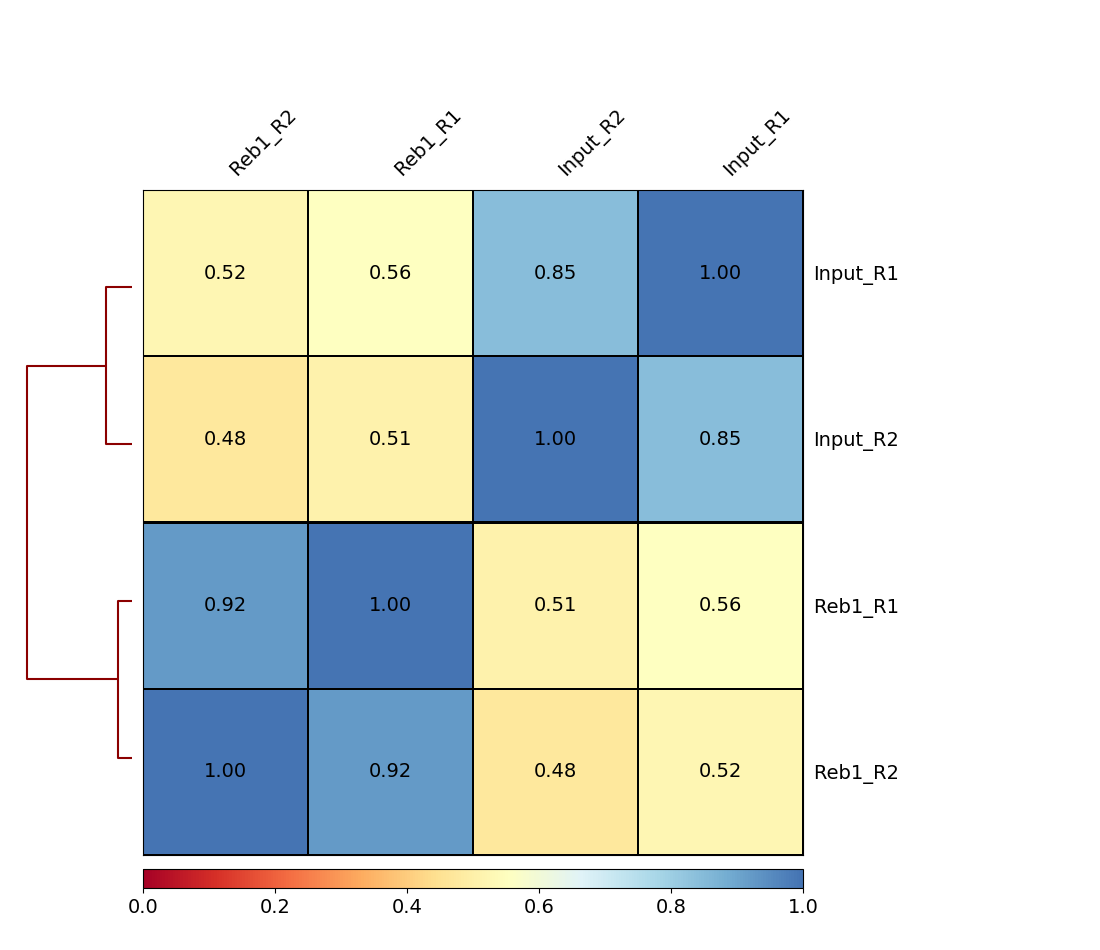
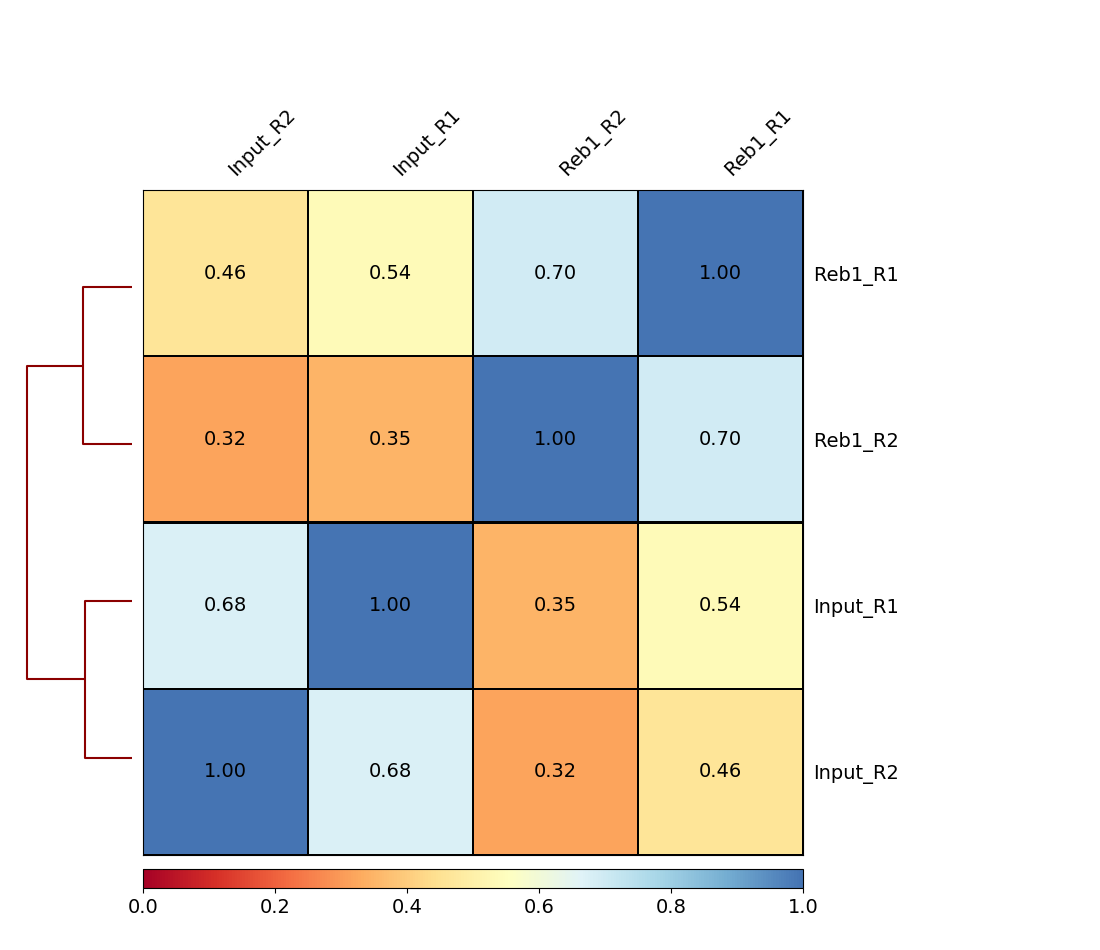
Updating tutorial for ECG 2018

diff --git a/index.md b/index.md
@@ -62,7 +62,7 @@ There are four datasets:
   																 </div>
 </div>
 
-These datasets are deposited in a [Galaxy library](https://usegalaxy.org/library/list#folders/F050cbba300e2dbed) (watch <a href="#" data-toggle="modal" data-target="#lib_video">Video</a> on how to import data from a library):
+These datasets are deposited in a [Galaxy library](http://ecg2018.bioch.virginia.edu/galaxy/library/list#folders/Ff2db41e1fa331b3e) (watch <a href="#" data-toggle="modal" data-target="#lib_video">Video</a> on how to import data from a library):
 
 |      |
 |------|
@@ -96,7 +96,9 @@ After uploading datasets into Galaxy history we will combine all datasets into a
 
 ## Mapping
 
-In this particular case the data is of very high quality and do not need to be trimmed or postprocessed in any way before mapping. We will proceed by mapping all the data against the latest version of the yeast genome `sacCer3`:
+In this particular case the data is of very high quality and do not need to be trimmed or postprocessed in any way before mapping. We will proceed by mapping all the data against the yeast genome **`sacCer3`** with BWA:
+
+<div class="alert alert-warning" role="alert"></div>
 
 |      |
 |------|
@@ -147,7 +149,7 @@ In out experiment there are two replicates, each containing treatment and input 
 |![](src/tutorials/chip/multibamsummary.png)|
 |<small>**Running multiBAMsummary** on a collection of BAM datasets (as before you can select collection by pressing folder (<i class="far fa-folder" aria-hidden="true"></i>) button).</small>
 
-This tool breaks genome into bins of fixed size (10,000 bp in our example) and computes the number of reads falling within each bin. Here is a fragment of its output:
+This tool breaks genome into bins of fixed size (1,000 bp in our example) and computes the number of reads falling within each bin. You should use larger bins (e.g. 5,000bp) with a larger genome, but the yeast genome is only 12Mbp and regulatory signals are more compact. Here is a fragment of its output:
 
 ```
 #'chr' 'start' 'end'  'Reb1_R1'  'Input_R1'  'Input_R1'  'Reb1_R2'
@@ -263,9 +265,9 @@ We will use **NGS: DeepTools &rarr; bamCoverage**:
 |      |
 |------|
 |![](src/tutorials/chip/bam_cov_1.png)|
-|<small>**Running bamCoverage** on a collection of filtered BAM datasets (as before you can select collection by pressing folder (<i class="far fa-folder" aria-hidden="true"></i>) button). Here we set **Bin size** to `25`.  Next we set **Effective genome size** to `user specified` and enter `12000000` (approximate size of *Saccharomyces cerevisiae* genome). Because this tool has a particularly long interface we cut out important sections to make this image (see the panes below). </small>|
-|![](src/tutorials/chip/bam_cov_3.png)|
-|<small>Finally we set **Extend reads to the given average fragment size** to `150`. This is because in this particular experiment DNA was size selected to be between 120 and 170 bp for library preparation.</small>|
+|<small>**Running bamCoverage** on a collection of filtered BAM datasets (as before you can select collection by pressing folder (<i class="far fa-folder" aria-hidden="true"></i>) button). Here we set **Bin size** to `1` so that we can see the high-resolution nature of the ChIP-exo data.  Next we set **Effective genome size** to `user specified` and enter `12000000` (approximate size of *Saccharomyces cerevisiae* genome).  </small>|
+
+Note that the default behavior of bamCoverage will not perform any pseudo-extensions to the read lengths. In ChIP-seq data, we often apply a pseudo-extension up to the expected ChIP fragment size length, which has the effect of smoothing the data plots. This is not typically appropriate for ChIP-exo data, as the smoothing removes the high-resolution nature of the experimental data. In fact, we often only examing the 5' coordinate of mapped ChIP-exo reads. However, the default behavior of the bamCoverage tool (i.e. counting the full read length in terms of coverage) is fine for this example.
 
 <div class="alert alert-warning" role="alert"><i class="fa fa-exclamation-circle" aria-hidden="true"></i> Running `bamCoverage` on a collection of BAM datasets will generate a collection of bigWig datasets. Name this collection `coverage` (for help on how to rename a collection <a href="#" data-toggle="modal" data-target="#collection_rename_video">see this video</a>).</div>
 
@@ -289,18 +291,18 @@ We will use **NGS: DeepTools &rarr; bamCoverage**:
 </div>
 
 
-Now we can display bigWig datasets generated in the previous section in a genome browser. There is a variety of available browsers. In this tutorial we will use IGV Browser (this <a href="#" data-toggle="modal" data-target="#igv_video">video</a> shows how to display multiple datasets in IGV).
+Now we can display bigWig datasets generated in the previous section in a genome browser. There is a variety of available browsers. In this tutorial we will use the UCSC Browser.
 
 |      |
 |------|
 |![](src/tutorials/chip/cvrg_collection.png)|
 |<small>**Collection of bigWigs** produced by `bamCoverage` above. Note that in the one expanded dataset (`Reb`_R2`) there is a `display at IGV` link.</small>|
 
-Clicking this link in all four datasets (you will need to expand each dataset by clicking on it. This will expose IGV link) and focusing browser on *MPH1* (*YIR002C*) gene will produce the following image:
+Clicking this link in all four datasets (you will need to expand each dataset by clicking on it. This will expose the UCSC links) and focusing browser on the *RPA14* gene will produce the following image:
 
 |      |
 |------|
-|![](src/tutorials/chip/igv1.png)|
+|![](src/tutorials/chip/rpa14.png)|
 |<small>**Coverage** distributing within IGV. Here ChIP replicates are colored in orange and controls are blue. All four tracks were set to maximum value of `70`.</small>
 
 # Calling peaks
@@ -393,7 +395,7 @@ In the case of these data peaks are very sharp and have narrow gap between them:
 |![](src/tutorials/chip/macs1.png)|
 |<small>**Calling peaks with `MACS2` on pooled data**. Here we choose multiple inputs by pressing <i class="far fa-copy" aria-hidden="true"></i> button and selecting both ChIP datasets in **ChIP-Seq Treatment File** and both Input DNA datasets in **ChIP-Seq Control File**. We then select `Saccharomyces cerevisiae` genome as the **Effective genome size**. `MACS2`s interface is long and we split it into several pieces in this figure. See the lower section as well - it is important!</small>|
 |![](src/tutorials/chip/macs2.png)|
-|<small>In this lower part of `MACS2` interface set **Build model** to `Do not build the shifting model` (we have already done this with `preductd` in the previous step) and **Set extension size* to `30` (the number we estimated in the previous step). Finally, we will only ask `MACS2` to produce two outputs: `Peak summits` and the one it produced by default, which contains peak coordinates.</small>|
+|<small>In this lower part of `MACS2` interface set **Build model** to `Do not build the shifting model` (we have already done this with `predictd` in the previous step) and **Set extension size* to `30` (the number we estimated in the previous step). Finally, we will only ask `MACS2` to produce two outputs: `Peak summits` and the one it produced by default, which contains peak coordinates.</small>|
 
 If you set parameters as was shown above `MACS2` will produce two outputs (if it produced more just find the ones called `narrow peaks` and `summits`). Let's click on the pencil icon(<i class="fas fa-pencil-alt" aria-hidden="true"></i>) adjacent to `summits` and `narrow peak` datasets and rename then as shown below:
 
@@ -433,7 +435,7 @@ Looking at MACS2 data we have gotten the following numbers of peaks:
 
 | Pooled | Replicate 1 | Replicate 2 |
 |-------:|------------:|------------:|
-|  974   |  955        |  784        |
+|  967   |  947        |  784        |
 
 Peaks data is generated in the following format:
 
@@ -479,18 +481,18 @@ Next we will join the result of the previous operation with `Peaks R2`:
 |![](src/tutorials/chip/join2.png)|
 |<small>**Joining Pooled/R1 with R2** results with `Join` tool. Note that because we renamed the datasets they are now easily selectable.</small>|
 
-This results in 723 regions are shared among polled, R1, and R2 peaks. Let's call this **High confidence set**. Before we can use it however, let's cut out only relevant columns. Since we have produced this dataset by joining three other datasets it is three times wider (30 columns). To cut this first three columns we can use **Text Manipulation &rarr; Cut columns** tool:
+This results in 722 regions are shared among polled, R1, and R2 peaks. Let's call this **High confidence peaks**. Before we can use it however, let's cut out only relevant columns. Since we have produced this dataset by joining three other datasets it is three times wider (30 columns). To cut this first three columns we can use **Text Manipulation &rarr; Cut columns** tool:
 
 |         |
 |---------|
 |![](src/tutorials/chip/cut.png)|
 |<small>**Cutting columns** from `Join` output.</small>|
 
-<div class="alert alert-warning">Rename the last dataset as `High confidence set`. This will make it easy to find as we continue.</div>
+<div class="alert alert-warning">Rename the last dataset as `High confidence peaks`. This will make it easy to find as we continue.</div>
 
 <div class="alert alert-danger" role="alert">Using `Cut columns` tool produces a dataset of tabular type. However, by cutting the first ten columns we have created a dataset in BED format. Thus we need to let Galaxy know about that by resetting metadata as shown below.</div>
 
-Next we need to make sure that output of `Cut columns` tool has the type `BED`. To do this we will edit its metadata as show below:
+Next we need to make sure that output of `Cut columns` tool has the type `BED`. Also specify the genome build as `sacCer3`. To do this we will edit its metadata as show below:
 
 |         |
 |---------|
@@ -499,12 +501,12 @@ Next we need to make sure that output of `Cut columns` tool has the type `BED`. 
 
 ## Let's look at everything in the browser
 
-Let's visualize Merged peaks as well as Narrow peaks and Summits produced by `MACS2` in IGV by clicking on `display with IGV local` links adjacent to `Peaks pooled` and `High confidence set` datasets (you should [already have browser open](/tutorials/chip/#displaying-coverage-tracks-in-a-browser)):
+Let's visualize Merged peaks as well as Narrow peaks and Summits produced by `MACS2` in the UCSC genome browser by clicking on `display at UCSC` links adjacent to `Peaks pooled` and `High confidence peaks` datasets:
 
 |         |
 |---------|
-|![](src/tutorials/chip/igv2.png)|
-|<small>**An overview in IGV**. Here you can see original bigWig datasets along with predicted peaks.</small>
+|![](src/tutorials/chip/ucsc_rpa14_2.png)|
+|<small>**An overview in UCSC**. Here you can see original bigWig datasets along with predicted peaks.</small>
 
 ## What sequence motifs are found within peaks
 
@@ -584,11 +586,6 @@ The resulting image shows that a significant fraction of 6,692 genes present in 
 |![](src/tutorials/chip/heatmap.png)|
 |<small>**Heatmap** showing distribution of Reb1 binding sites across upstream regions of 6,692 yeast genes.</small>|
 
-# We did not fake this
+# Galaxy history
 
-This entire analysis is available as a Galaxy history [here](https://usegalaxy.org/u/aun1/h/reb1-yeast-tutorial). Import it and play with it.
-
-
-# And so it goes...
-
-Hopefully this tutorial has given you the taste for what is possible. There are more tools out there so experiment! If things do not work - complain using `Open Chat` button below or our [BioStar](https://biostar.usegalaxy.org/) channel.
+This entire analysis is available as a Galaxy history [here](http://ecg2018.bioch.virginia.edu/galaxy/u/shaunmahony/h/chip-seq-tutorial). Import it and play with it. If things do not work - complain using `Open Chat` button below or our [BioStar](https://biostar.usegalaxy.org/) channel.
